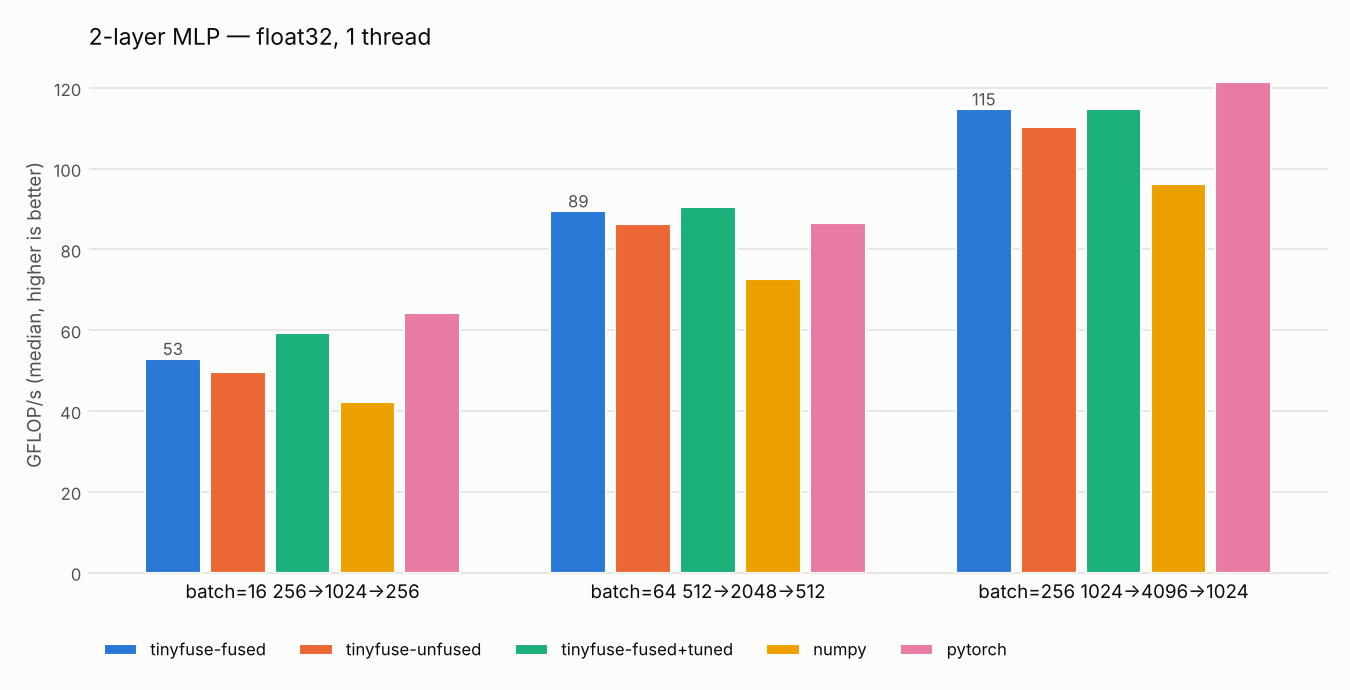
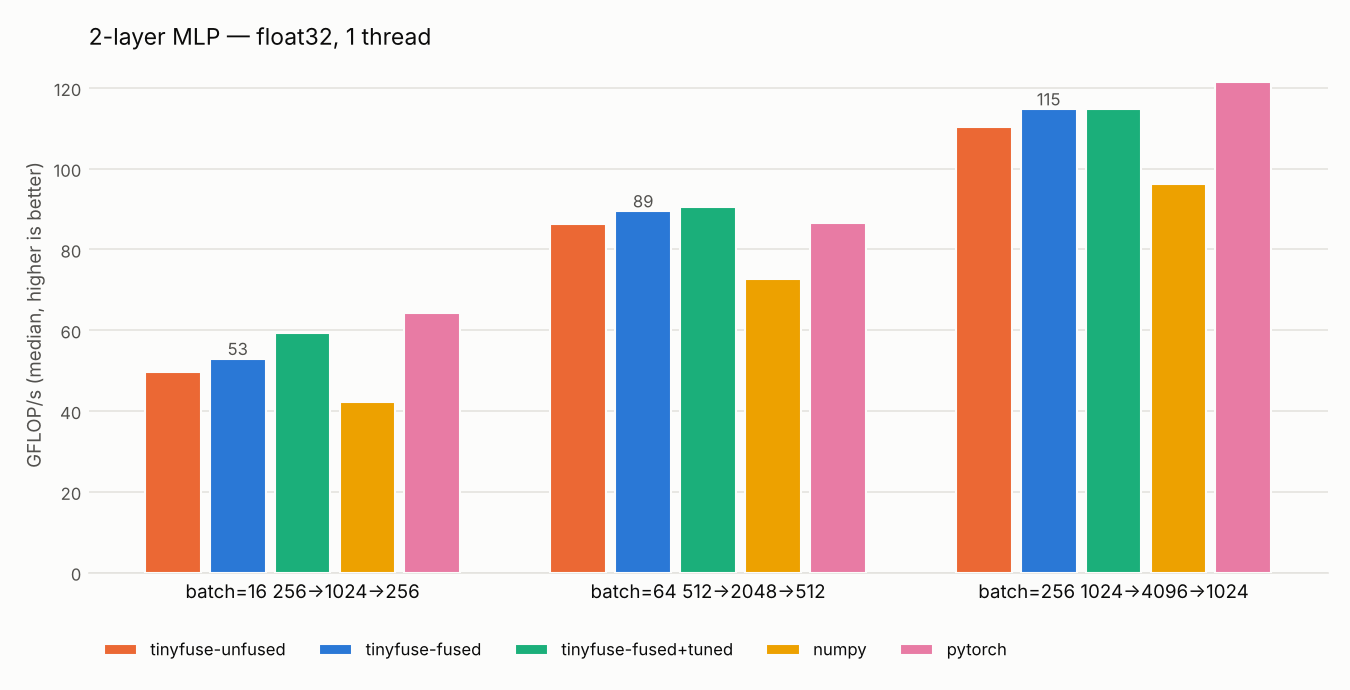
Add 4-thread benchmark results and charts; document multi-threaded weaknesses

diff --git a/README.md b/README.md
@@ -26,7 +26,8 @@ y = f(x, w1, b1, w2, b2)  # NumPy arrays in, NumPy arrays out
   NumPy at `rtol = atol = 1e-4`, plus randomized differential fuzzing.
 * Single-threaded, it is **1.2–1.7× faster than NumPy/OpenBLAS** on these
   models, and on par with or faster than PyTorch eager on the transformer
-  block (numbers [below](#benchmarks)).
+  block. **With 4 threads it is 1.5–2.4× slower than PyTorch**, because its
+  threading is naive. Numbers [below](#benchmarks).
 
 Design decisions and their rationale are in **[DESIGN.md](DESIGN.md)**.
 
@@ -193,8 +194,11 @@ tuning=TuningDB(path))`. Compiled `.so` files are cached in `$TINYFUSE_CACHE`
 
 Setup: Intel Xeon @ 2.80 GHz (cloud VM, 4 vCPUs, AVX-512), GCC 13.3, Python 3.13,
 NumPy 2.5.3 (OpenBLAS), PyTorch 2.15.0 CPU. float32. Every variant's output is
-checked against NumPy before timing. Variants run **interleaved**, one call each
-per round, for many rounds; we report the median. Raw data:
+checked against NumPy before timing. Single-threaded, variants run
+**interleaved**, one call each per round, for many rounds. Multi-threaded,
+interleaving makes the thread pools of OpenMP, OpenBLAS and PyTorch fight for
+the 4 cores (medians came out 2–25× the minimums), so each variant instead runs
+in its own warmed-up block, over 3 passes. We report the median. Raw data:
 `docs/benchmarks_*.csv`; environment: `docs/benchmarks_*_env.txt`.
 
 * **tinyfuse-unfused**: cleanup passes only, one kernel per op (still our tiled C kernels).
@@ -222,7 +226,25 @@ Median ms per call (speedup vs NumPy):
 | 128, 512, 8, 2048 | 9.074 (×1.54) | 8.893 (×1.57) | 8.458 (×1.65) | 13.97 | 11.78 (×1.19) |
 | 256, 768, 12, 3072 | 39.20 (×1.30) | 37.48 (×1.36) | 36.22 (×1.41) | 51.14 | 38.13 (×1.34) |
 
-<!-- MULTITHREAD -->
+### Four threads
+
+tinyfuse uses `CodegenOptions(parallel=True)` (OpenMP); NumPy/OpenBLAS and
+PyTorch use 4 threads.
+
+![MLP, 4 threads](docs/bench_mlp_4t.png)
+![Transformer block, 4 threads](docs/bench_transformer_4t.png)
+
+| MLP (batch, in→hidden→out) | unfused | fused | fused+tuned | numpy | pytorch |
+|---|---:|---:|---:|---:|---:|
+| 16, 256→1024→256 | 0.387 (×0.54) | 0.439 (×0.48) | 0.557 (×0.38) | 0.209 | 0.106 (×1.98) |
+| 64, 512→2048→512 | 2.577 (×0.63) | 2.595 (×0.62) | 3.151 (×0.51) | 1.613 | 0.880 (×1.83) |
+| 256, 1024→4096→1024 | 21.28 (×0.79) | 22.65 (×0.74) | 22.09 (×0.76) | 16.77 | 11.20 (×1.50) |
+
+| Transformer block (seq, d, heads, ff) | unfused | fused | fused+tuned | numpy | pytorch |
+|---|---:|---:|---:|---:|---:|
+| 64, 256, 4, 1024 | 1.537 (×0.91) | 1.468 (×0.95) | 1.355 (×1.03) | 1.400 | 0.921 (×1.52) |
+| 128, 512, 8, 2048 | 6.745 (×1.18) | 6.511 (×1.22) | 7.326 (×1.08) | 7.936 | 3.361 (×2.36) |
+| 256, 768, 12, 3072 | 25.69 (×1.04) | 23.12 (×1.16) | 22.54 (×1.19) | 26.71 | 11.28 (×2.37) |
 
 ### What the numbers say
 
@@ -240,6 +262,15 @@ Median ms per call (speedup vs NumPy):
   is too large for the problem.
 * **PyTorch eager** is faster on the smallest and the largest MLP. Its MKL/oneDNN
   GEMM beats ours on large square-ish problems.
+* **Multi-threaded, tinyfuse loses.** PyTorch is 1.5–2.4× faster than tinyfuse
+  at 4 threads, and NumPy wins on the MLPs. Our matmul opens an OpenMP parallel
+  region for every cache block, packs A on one thread, and uses tiles tuned for
+  one thread. The autotuner tunes single-threaded, so its tiles can hurt here
+  (see `fused+tuned` on the MLPs). Going from 1 to 4 threads ranges from
+  0.7× (the smallest MLP gets *slower*) to 1.65×. Fixing this is the most valuable next step: one parallel region per
+  kernel, per-thread A packing, and parallelising over N-panels for small M.
+* **The multi-threaded numbers are noisier.** On this VM the medians still sit
+  10–60 % above the minimums at 4 threads.
 
 ## Testing
 
@@ -270,10 +301,12 @@ Median ms per call (speedup vs NumPy):
   hand-written assembly. It is tuned for AVX-512; AVX2 and narrower targets work
   through the same vector-extension code but get much less tuning. Packing
   buffers are rebuilt on every call, even for constant weights.
-* **Threading is basic.** With `parallel=True`, OpenMP splits each matmul cache
-  block's micro-tiles and the outer loops of elementwise and row kernels. There
-  is no NUMA awareness and no fork-join amortization across kernels. A compiled
-  function is **not reentrant**, because its workspace is shared between calls.
+* **Threading is basic, and it shows (see the 4-thread benchmarks).** With
+  `parallel=True`, OpenMP splits each matmul cache block's micro-tiles and the
+  outer loops of elementwise and row kernels, with a fork/join per block. There
+  is no per-thread packing, no NUMA awareness, and no amortization across
+  kernels. A compiled function is **not reentrant**, because its workspace is
+  shared between calls.
 * **`-ffast-math`.** It is needed for vectorized `expf`/`tanhf` (glibc libmvec).
   Results can differ from NumPy in the last bits, and NaN/inf inputs give
   unspecified results.

diff --git a/docs/benchmarks_1t.md b/docs/benchmarks_1t.md
@@ -1,15 +1,15 @@
 **mlp** — median ms per call (speedup vs NumPy)
 
-| config | tinyfuse-fused | tinyfuse-unfused | tinyfuse-fused+tuned | numpy | pytorch |
+| config | tinyfuse-unfused | tinyfuse-fused | tinyfuse-fused+tuned | numpy | pytorch |
 |---|---:|---:|---:|---:|---:|
-| batch=16 256→1024→256 | 0.317 (×1.25) | 0.337 (×1.18) | 0.282 (×1.41) | 0.398 (×1.00) | 0.261 (×1.52) |
-| batch=64 512→2048→512 | 3.001 (×1.23) | 3.114 (×1.19) | 2.965 (×1.25) | 3.698 (×1.00) | 3.105 (×1.19) |
-| batch=256 1024→4096→1024 | 37.449 (×1.19) | 38.952 (×1.15) | 37.456 (×1.19) | 44.623 (×1.00) | 35.340 (×1.26) |
+| batch=16 256→1024→256 | 0.337 (×1.18) | 0.317 (×1.25) | 0.282 (×1.41) | 0.398 (×1.00) | 0.261 (×1.52) |
+| batch=64 512→2048→512 | 3.114 (×1.19) | 3.001 (×1.23) | 2.965 (×1.25) | 3.698 (×1.00) | 3.105 (×1.19) |
+| batch=256 1024→4096→1024 | 38.952 (×1.15) | 37.449 (×1.19) | 37.456 (×1.19) | 44.623 (×1.00) | 35.340 (×1.26) |
 
 **transformer** — median ms per call (speedup vs NumPy)
 
-| config | tinyfuse-fused | tinyfuse-unfused | tinyfuse-fused+tuned | numpy | pytorch |
+| config | tinyfuse-unfused | tinyfuse-fused | tinyfuse-fused+tuned | numpy | pytorch |
 |---|---:|---:|---:|---:|---:|
-| seq=64 d=256 h=4 ff=1024 | 1.333 (×1.57) | 1.381 (×1.52) | 1.267 (×1.66) | 2.098 (×1.00) | 1.626 (×1.29) |
-| seq=128 d=512 h=8 ff=2048 | 8.893 (×1.57) | 9.074 (×1.54) | 8.458 (×1.65) | 13.969 (×1.00) | 11.778 (×1.19) |
-| seq=256 d=768 h=12 ff=3072 | 37.475 (×1.36) | 39.200 (×1.30) | 36.219 (×1.41) | 51.137 (×1.00) | 38.133 (×1.34) |
+| seq=64 d=256 h=4 ff=1024 | 1.381 (×1.52) | 1.333 (×1.57) | 1.267 (×1.66) | 2.098 (×1.00) | 1.626 (×1.29) |
+| seq=128 d=512 h=8 ff=2048 | 9.074 (×1.54) | 8.893 (×1.57) | 8.458 (×1.65) | 13.969 (×1.00) | 11.778 (×1.19) |
+| seq=256 d=768 h=12 ff=3072 | 39.200 (×1.30) | 37.475 (×1.36) | 36.219 (×1.41) | 51.137 (×1.00) | 38.133 (×1.34) |

diff --git a/docs/benchmarks_4t.md b/docs/benchmarks_4t.md
@@ -1,0 +1,15 @@
+**mlp** — median ms per call (speedup vs NumPy)
+
+| config | tinyfuse-unfused | tinyfuse-fused | tinyfuse-fused+tuned | numpy | pytorch |
+|---|---:|---:|---:|---:|---:|
+| batch=16 256→1024→256 | 0.387 (×0.54) | 0.439 (×0.48) | 0.557 (×0.38) | 0.209 (×1.00) | 0.106 (×1.98) |
+| batch=64 512→2048→512 | 2.577 (×0.63) | 2.595 (×0.62) | 3.151 (×0.51) | 1.613 (×1.00) | 0.880 (×1.83) |
+| batch=256 1024→4096→1024 | 21.279 (×0.79) | 22.650 (×0.74) | 22.094 (×0.76) | 16.765 (×1.00) | 11.202 (×1.50) |
+
+**transformer** — median ms per call (speedup vs NumPy)
+
+| config | tinyfuse-unfused | tinyfuse-fused | tinyfuse-fused+tuned | numpy | pytorch |
+|---|---:|---:|---:|---:|---:|
+| seq=64 d=256 h=4 ff=1024 | 1.537 (×0.91) | 1.468 (×0.95) | 1.355 (×1.03) | 1.400 (×1.00) | 0.921 (×1.52) |
+| seq=128 d=512 h=8 ff=2048 | 6.745 (×1.18) | 6.511 (×1.22) | 7.326 (×1.08) | 7.936 (×1.00) | 3.361 (×2.36) |
+| seq=256 d=768 h=12 ff=3072 | 25.685 (×1.04) | 23.115 (×1.16) | 22.543 (×1.19) | 26.708 (×1.00) | 11.279 (×2.37) |
